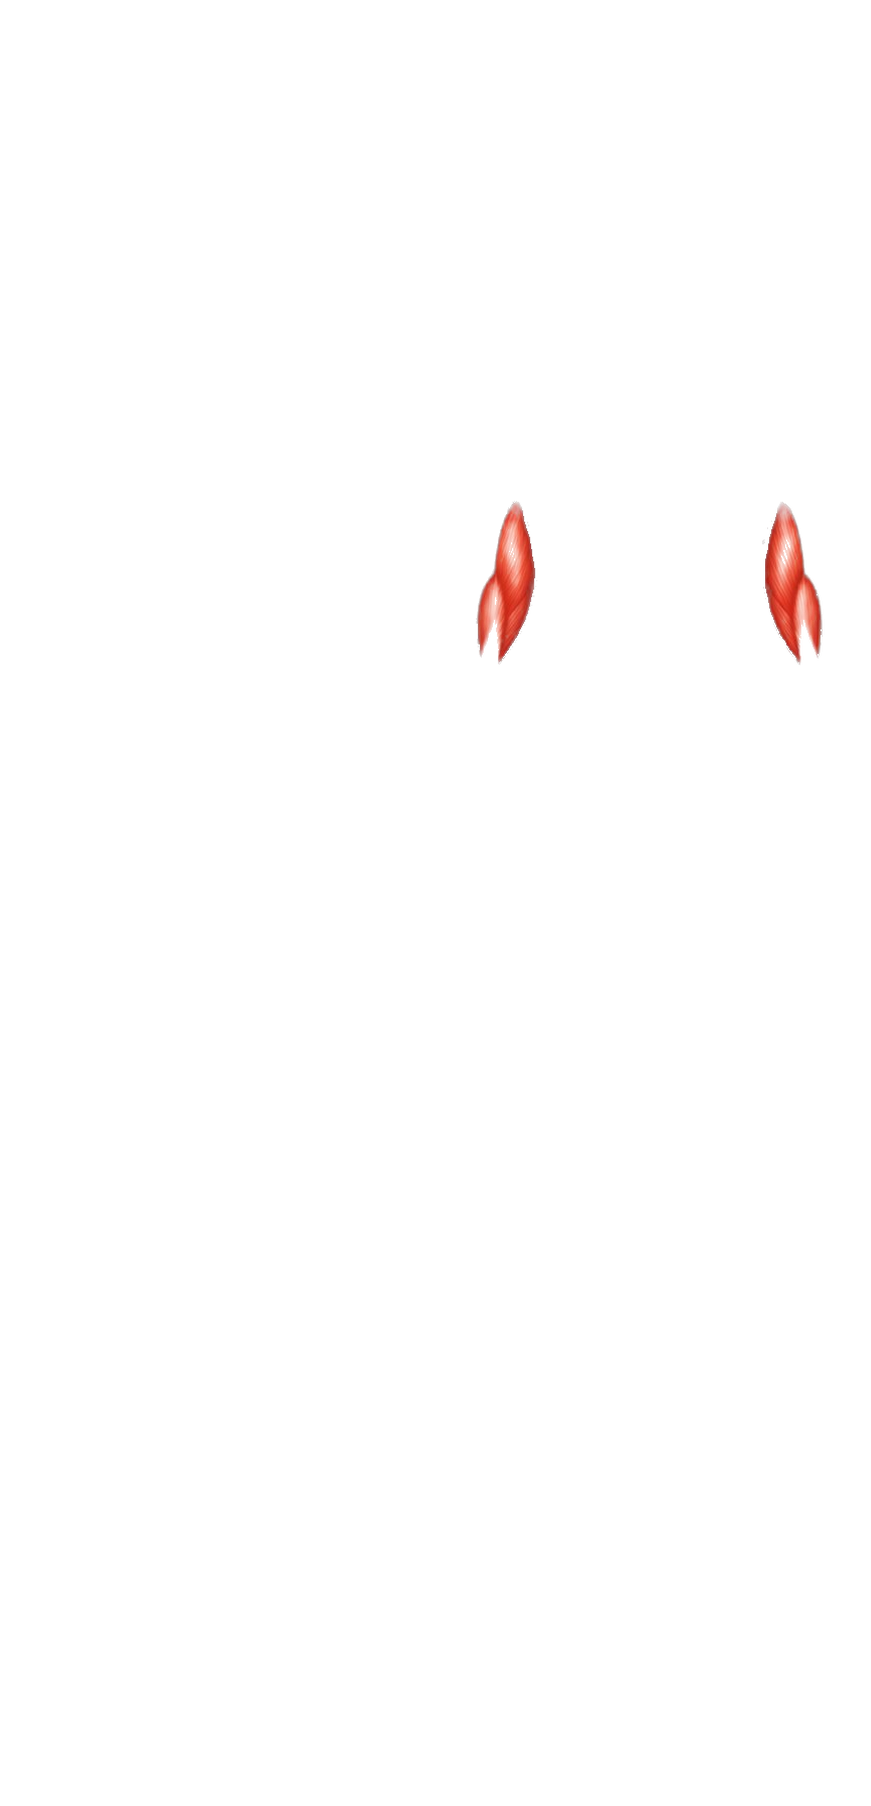
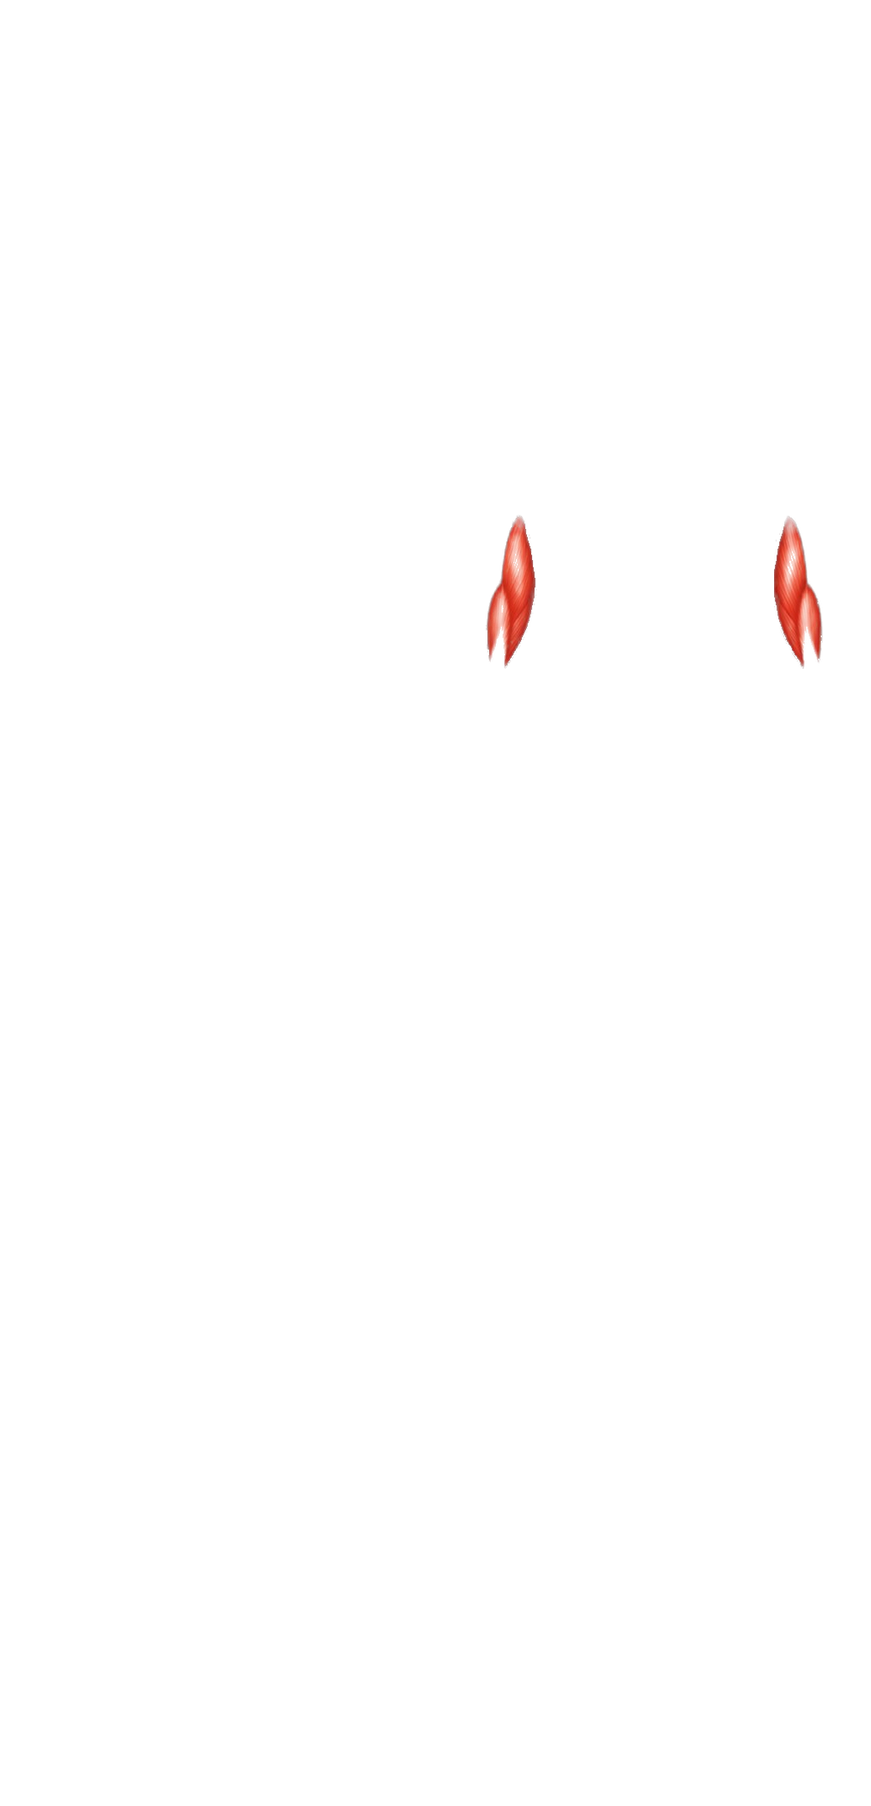
Refine shoulder and triceps overlays

Changed region(s): [[0.527, 0.2791, 0.62, 0.3721], [0.868, 0.2791, 0.961, 0.3721]]

diff --git a/components/FitLogApp.tsx b/components/FitLogApp.tsx
@@ -108,7 +108,7 @@ const MUSCLE_OVERLAY_IMAGES: Record<string, string> = {
   cardio: "/images/muscles/cardio.png",
 };
 
-const MUSCLE_OVERLAY_VERSION = "20260531-combined2";
+const MUSCLE_OVERLAY_VERSION = "20260531-combined3";
 
 const MUSCLE_DETAIL_SHAPES: Record<string, MuscleDetailShape[]> = {
   chest: [